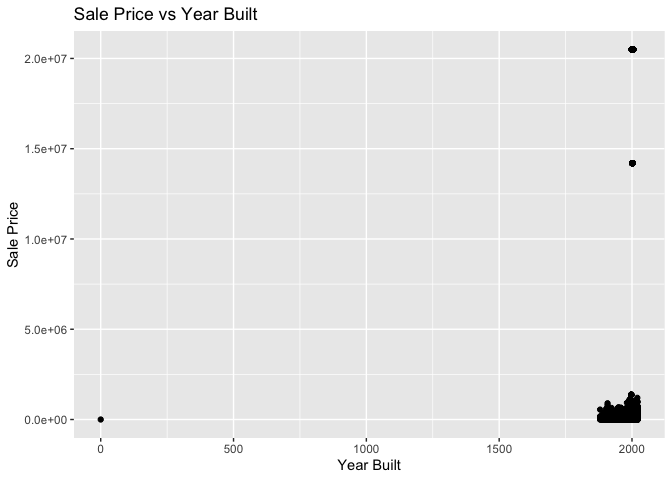
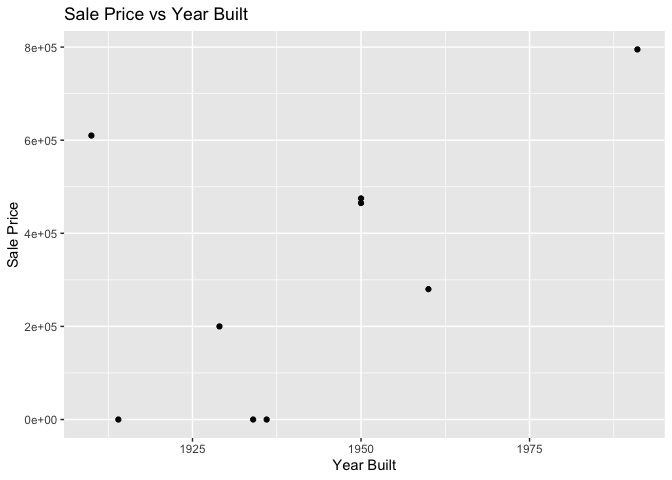
Removed NA values in the dataset before plotting.

diff --git a/README.md b/README.md
@@ -34,7 +34,7 @@ install.packages("ggplot2")
 
     ## 
     ## The downloaded binary packages are in
-    ##  /var/folders/w2/lzx1xwjd1fb1r6fw31p2kxhc0000gn/T//RtmpVTVtlV/downloaded_packages
+    ##  /var/folders/w2/lzx1xwjd1fb1r6fw31p2kxhc0000gn/T//RtmpEvJYPN/downloaded_packages
 
 ``` r
 library(ggplot2)
@@ -222,15 +222,12 @@ ggplot(data = ames,
 
 ``` r
 # Scatter plot of Sale Price against Year Built
-ggplot(ames, aes(x = YearBuilt, y = `Sale Price`)) +
+ggplot(na.omit(ames), aes(x = YearBuilt, y = `Sale Price`)) +
   geom_point() +
   ggtitle("Sale Price vs Year Built") +
   xlab("Year Built") +
   ylab("Sale Price")
 ```
-
-    ## Warning: Removed 447 rows containing missing values or values outside the scale range
-    ## (`geom_point()`).
 
 ![](README_files/figure-gfm/year_built_analysis-1.png)<!-- -->
 
